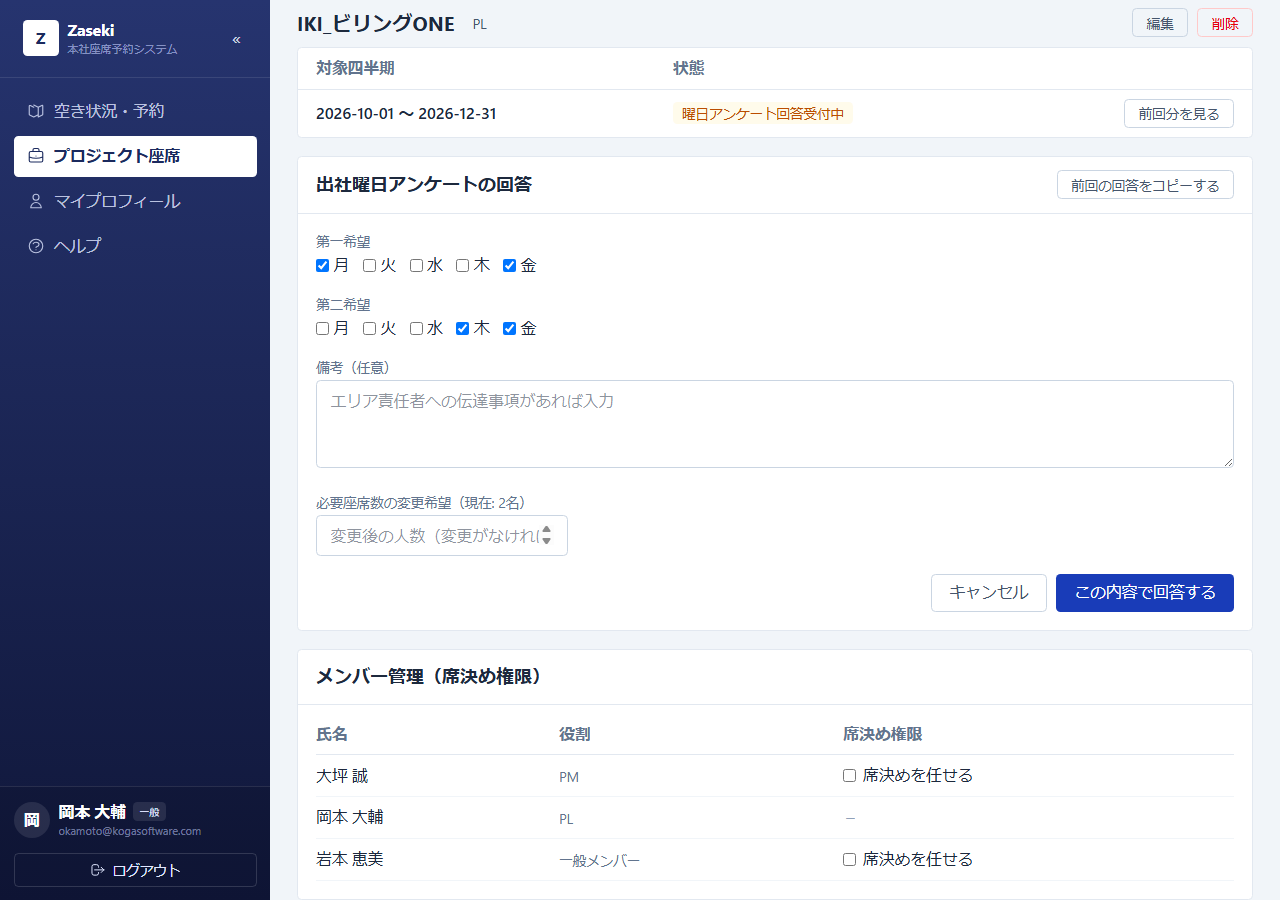
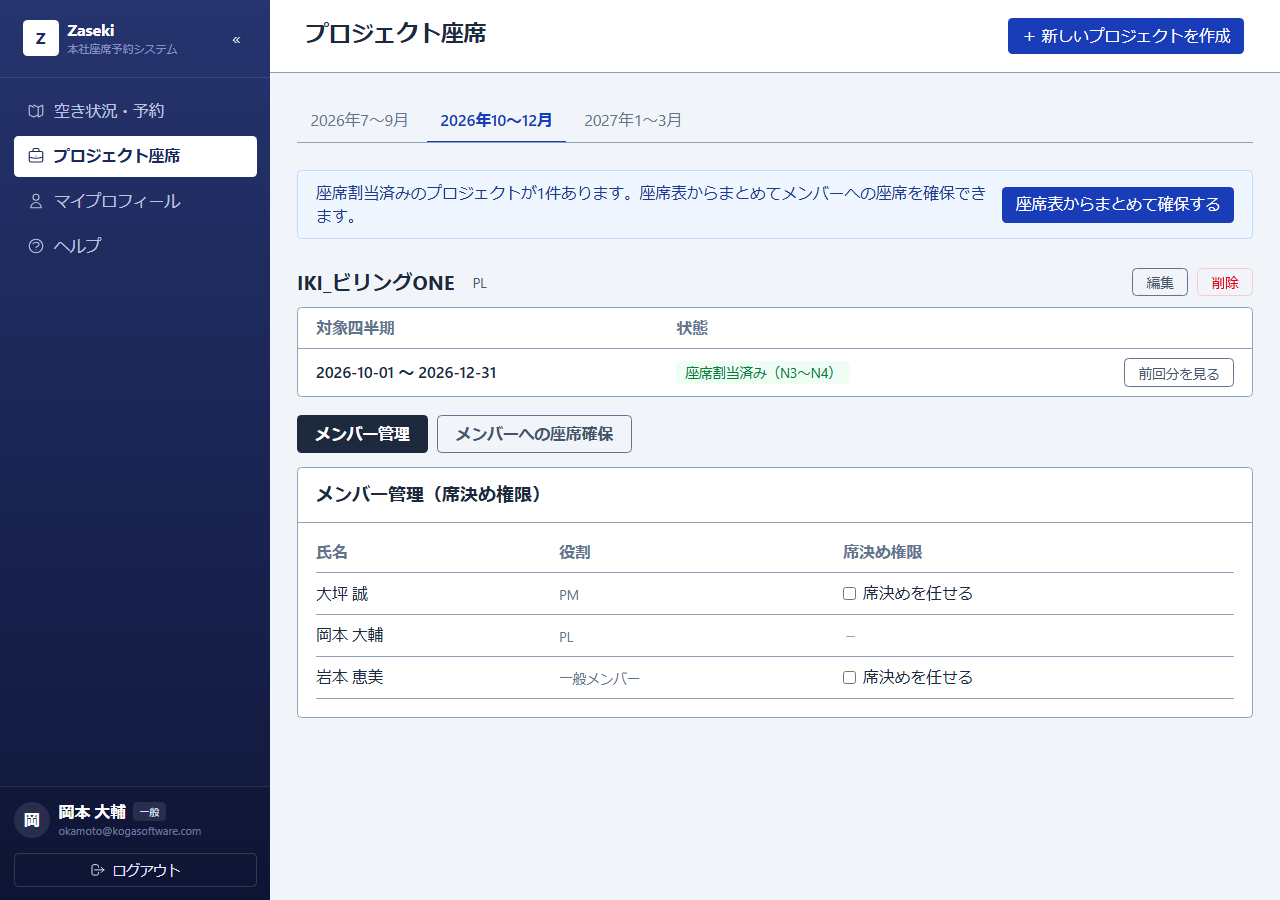
Refresh Help page to match current PM/PL and admin seat-assignment flows
Rewrite the member management / seat assignment sections to describe the
floor-map-only assignment flow and new bulk assign button. Rewrite the
admin seat-ops section to document the two-step tentative-assignment
flow (implemented previously but never reflected in Help), weekday
filters, override icon, and bulk island assignment. Retake screenshots
to match.

diff --git a/frontend/src/pages/Help.tsx b/frontend/src/pages/Help.tsx
@@ -173,7 +173,7 @@ export default function Help() {
               <ol className="list-decimal space-y-3 pl-5">
                 <li>サイドバーの「マイプロフィール」を開きます。自分のアイコン画像・生年月日（月日のみ）・趣味を登録できます（いずれも任意項目）。
                   <div className="mt-2 max-w-md">
-                    <Screenshot src="/help/profile-01-page.png" caption="マイプロフィール画面（アイコンの登録・生年月日の設定）" />
+                    <Screenshot src="/help/profile-01-page.png" caption="マイプロフィール画面（アイコンの登録・生年月日・趣味の設定）" />
                   </div>
                 </li>
                 <li>「画像を選択」から画像ファイルを選ぶと、位置・拡大率を調整するダイアログが開きます。円形の枠内に表示したい範囲を合わせて「適用する」を押し、最後に画面下の「保存する」を押してください（適用しただけでは保存されません）。</li>
@@ -183,7 +183,11 @@ export default function Help() {
               <ul className="list-disc space-y-1 pl-5">
                 <li>アイコンを設定すると、座席表の座席タイルに氏名とあわせて表示されます。未設定の間は氏名の頭文字のアバターが表示されます。</li>
                 <li>生年月日（月日）が本日と一致する日は、自分が使用している座席タイルに誕生日バッジ（🎂）が表示されます。</li>
-                <li>座席表で他の利用者の氏名が表示されている座席（使用中・固定座席・プロジェクト座席で個人が確定している座席）をクリックすると、その利用者のプロフィール（氏名・所属・生年月日・趣味）を見ることができます（2026-09-25追加）。</li>
+                <li>座席表で他の利用者の氏名が表示されている座席（使用中・固定座席・プロジェクト座席で個人が確定している座席）をクリックすると、その利用者のプロフィール（氏名・所属・生年月日・趣味）を見ることができます（2026-09-25追加）。
+                  <div className="mt-2 max-w-md">
+                    <Screenshot src="/help/profile-02-view.png" caption="氏名が表示されている座席をクリックすると開くプロフィール" />
+                  </div>
+                </li>
               </ul>
             </Section>
 
@@ -255,24 +259,32 @@ export default function Help() {
               </ol>
             </Section>
 
+            <Note>
+              「メンバー管理」「メンバーへの座席確保」は、それぞれのボタンを押すと表の部分が開きます（もう一度押すと閉じます）。2つのボタンは独立していて、片方を開いてももう片方は閉じません。両方同時に開くこともできます（2026-09-25変更。以前は常に両方の表を並べて表示していましたが、縦に長くなりすぎるため開閉式に改めました）。
+            </Note>
+
             <Section title="メンバー管理（席決め権限）">
-              <p>プロジェクトのPJ席決担当のみが操作できます。メンバー一覧の「席決めを任せる」チェックを入れると、そのメンバーにも下記の座席確保操作を任せられます（管理部の承認は不要）。自分自身の行にはチェックが表示されません（PJ席決担当は常に操作できるため）。</p>
+              <p>プロジェクトのPJ席決担当のみが操作できます。「メンバー管理」ボタンを押すと開く一覧の「席決めを任せる」チェックを入れると、そのメンバーにも下記の座席確保操作を任せられます（管理部の承認は不要）。自分自身の行にはチェックが表示されません（PJ席決担当は常に操作できるため）。</p>
               <div className="mt-2 max-w-md">
-                <Screenshot src="/help/members-01-permission.png" caption="メンバー管理（席決め権限）の一覧" />
+                <Screenshot src="/help/members-01-permission.png" caption="「メンバー管理」ボタンを押すと開く、席決め権限の一覧" />
               </div>
             </Section>
 
             <Section title="メンバーへの座席確保">
-              <p>座席の島の割当が完了した四半期（状態が「座席割当済み」）に限り、プロジェクトのPJ席決担当または席決め権限を持つメンバーが操作できます。</p>
+              <p>座席の島の割当が完了した四半期（状態が「座席割当済み」）に限り、プロジェクトのPJ席決担当または席決め権限を持つメンバーが「メンバーへの座席確保」ボタンから操作できます。</p>
               <ol className="list-decimal space-y-3 pl-5">
-                <li>「割り当てる座席」列のプルダウンから座席を選び、「この内容で一括確保する」でまとめて確保します。前回サイクルの座席割当があるプロジェクトでは「前回の座席をコピーする」で、前回と同じ座席番号が今回の座席の島にも含まれるメンバーの分だけ自動的に選択できます。固定座席あり・不要のメンバーも同じ表に表示され、確保状況を一目で確認できます。
+                <li>座席の確保はすべて座席表（フロアマップ）から行います。未確保のメンバーの行には「座席表から確保してください」と表示されるので、表の下の「座席表から選ぶ」を押してフロアマップへ移動し、座席の島の範囲内・未確定の座席をクリックして割り当てる相手を選びます。曜日によって座席の島が異なるプロジェクトでは、画面上部の曜日タブを切り替えながら曜日ごとに別々の座席を選べます（同じメンバーでも曜日ごとに違う座席にできます）。複数名を選んでから「この内容で確保する」で確定します。固定座席あり・不要のメンバーも同じ表に表示され、確保状況を一目で確認できます。
                   <div className="mt-2 max-w-md">
-                    <Screenshot src="/help/assign-01-table.png" caption="メンバーへの座席確保（座席の確保状況・割り当てる座席・不要）" />
+                    <Screenshot src="/help/assign-01-table.png" caption="メンバーへの座席確保（座席の確保状況・変更先・不要）" />
                   </div>
                 </li>
-                <li>座席表を見ながら選びたい場合は「座席表から選ぶ」からフロアマップへ移動し、座席をクリックして割り当てる相手を選びます。複数名を選んでから「この内容で確保する」で確定します。</li>
+                <li>複数のプロジェクトをまたいでまとめて座席を確保したい場合は、プロジェクト座席画面の上部に表示される「座席表からまとめて確保する」ボタンを使います（対象四半期に座席割当済み・未確保メンバーがいるプロジェクトが1件以上あるときに表示されます）。フロアマップの右側に曜日タブ・対象プロジェクト一覧・選択中プロジェクトの詳細（必要座席数・割り当てられた島・未確保のメンバー）が表示され、プロジェクトと曜日を切り替えながら複数プロジェクト分をまとめて選び、「この内容で確保する」で確定します（座席の島の一括割当と同じ考え方の画面です）。
+                  <div className="mt-2 max-w-md">
+                    <Screenshot src="/help/assign-02-bulk.png" caption="座席表からまとめて確保する（複数プロジェクトの未確保メンバーを1画面でまとめて確保）" />
+                  </div>
+                </li>
                 <li>同じ座席を複数人に指定した場合、その組み合わせだけが確保対象から除外されます。</li>
-                <li>確保済みのメンバーも、行の「変更先を選択」から別の座席（座席の島の範囲内）や「在宅勤務」への変更ができます。既に別のメンバーが使っている座席を選ぶと、その相手と座席を交換します。</li>
+                <li>確保済みのメンバーも、行の「変更先を選択」から別の座席（座席の島の範囲内）や「在宅勤務」への変更ができます。既に別のメンバーが使っている座席を選ぶと、その相手と座席を交換します（曜日によって座席が異なるプロジェクトでは、全確定曜日に共通する座席のみ選べます）。</li>
               </ol>
             </Section>
 
@@ -293,10 +305,7 @@ export default function Help() {
             </Section>
 
             <Section title="在宅のため座席が不要なメンバーの設定">
-              <p>ずっと在宅勤務でプロジェクト座席が不要なメンバーは、「メンバーへの座席確保」の一覧にある「不要」チェックを入れます。</p>
-              <div className="mt-2 max-w-md">
-                <Screenshot src="/help/assign-01-table.png" caption="「不要」は、メンバーへの座席確保と同じ表のチェック欄で設定する" />
-              </div>
+              <p>ずっと在宅勤務でプロジェクト座席が不要なメンバーは、「メンバーへの座席確保」ボタンを押すと開く一覧にある「不要」チェックを入れます。</p>
               <ul className="list-disc space-y-1 pl-5">
                 <li>確保対象・未確保者数、および必要座席数の算出から除外されます。</li>
                 <li>既に座席を確保済みの行はチェックボックスが非活性になります。先に予約を取り消してから設定してください。</li>
@@ -321,24 +330,25 @@ export default function Help() {
             <Section title="プロジェクト座席の運用">
               <p>管理メニューの「プロジェクト座席（エリア担当）」から開きます。管理部（role='admin'）であればエリア責任者への指定を問わず操作できます。</p>
               <ol className="list-decimal space-y-3 pl-5">
-                <li>四半期計画データと出社曜日アンケートはシステムが自動的に作成・受付開始されるため、開始操作は不要です。ページ冒頭の「期間」には、まだ座席期間が設定されていないプロジェクトへの一括新規設定ボタンと、既存プロジェクトへ次のサイクル分の期間を追加する・期間を修正するためのボタンがあります。</li>
-                <li>出社曜日の確定は「曜日調整表」（曜日×プロジェクトのマトリクス表）で行います。希望外の曜日をチェックすると「例外」バッジが付き、必要に応じて「AI提案を生成する」で仮の曜日案を作成することもできます。内容を確認して「この内容で全プロジェクトの曜日を確定する」を押すと、表示中の全プロジェクトの曜日がまとめて確定します（確定すると通知が送られます）。次のサイクル分を確定する際は、この表で前回サイクルの内容（各プロジェクトの備考・曜日）もあわせて参照できます。
+                <li>四半期計画データと出社曜日アンケートはシステムが自動的に作成・受付開始されるため、開始操作は不要です。ページ冒頭の「期間」の「座席期間を新規設定する」から、まだ期間が設定されていないプロジェクトへの新規設定と、既存プロジェクトへの次サイクル分の期間追加をまとめて行えます。個別のプロジェクトの期間だけを後から直したい場合は、下の「座席割り当て」一覧にある行ごとの「期間を修正」を使います。
                   <div className="mt-2 max-w-md">
-                    <Screenshot src="/help/seatops-02-matrix.png" caption="曜日×プロジェクトの確定マトリクス（曜日調整表）" />
+                    <Screenshot src="/help/seatops-02-matrix.png" caption="期間タブ・絞り込み（曜日・状態・エリア・プロジェクト名）・曜日調整表" />
                   </div>
                 </li>
+                <li>期間が複数あるときは期間タブで対象を切り替えられます。その下の「曜日で絞り込み」「状態」「エリア」「プロジェクト名」は、曜日調整表・確定した出社曜日・座席割り当ての3つの一覧すべてに共通して効く絞り込みです（「曜日で絞り込み」は絞り込みに加えて、後述する座席の島の例外編集の対象曜日の指定にも使います）。</li>
+                <li>出社曜日の確定は「曜日調整表」（曜日×プロジェクトのマトリクス表）で行います。希望外の曜日をチェックすると「例外」バッジが付き、必要に応じて「AI提案を生成する」で仮の曜日案を作成することもできます。内容を確認して「仮の座席割り当てを作成する」を押すと、その時点のチェック状態のまま次項の座席の島の割当画面に進みます。この時点ではまだ対外的な確定・Slack通知は行われず、曜日のチェック状態も座席の島も自由にやり直せる「仮」の状態です。実際にその曜日・座席で問題ないことを確認できたら、仮の座席割り当て済みのプロジェクトが1件以上あるときに表示される「この内容で本当に曜日を確定する」を押して、初めて確定・通知されます。</li>
                 <li>確定後・割当後のプロジェクトは、直後の「確定した出社曜日」表で確認できます。この表はチェックボックスで直接編集できる表でもあり（変更後は「この内容で変更する」で保存）、「プロジェクトの確定を取り消す」から曜日確定前に戻すこともできます。「割当済み」には実際に割り当てられた座席番号もあわせて表示されます。</li>
-                <li>各プロジェクトの状態（アンケート回答受付中・曜日確定済み・座席割当済み）や席決め担当、必要座席数などは「座席割り当て」の一覧でまとめて確認できます。未回答のプロジェクトが残っている場合は、一覧の「リマインドを送る」から任意のタイミングで催促を送れます（共通Slackチャンネルへ通知）。必要座席数は、固定座席保有者・不要なメンバーを除いた人数から自動算出されるので、例外的に上書きしたい場合のみ「人数を修正」を使います（ただし実際に座席の島を割り当てる際は、その時点の実際のメンバー構成が優先されます）。
+                <li>各プロジェクトの状態（アンケート回答受付中・仮の座席割り当て中・曜日確定済み・座席割当済み）や席決め担当、必要座席数などは「座席割り当て」の一覧でまとめて確認できます。未回答のプロジェクトが残っている場合は、一覧の「リマインドを送る」から任意のタイミングで催促を送れます（共通Slackチャンネルへ通知）。必要座席数は、固定座席保有者・不要なメンバーを除いた人数から自動算出されるので、例外的に上書きしたい場合のみ「人数を修正」を使います（ただし実際に座席の島を割り当てる際は、その時点の実際のメンバー構成が優先されます）。曜日によって座席の島が異なるプロジェクトはプロジェクト名の隣に🔀が表示され、カーソルを合わせると曜日ごとの内訳を確認できます。誤って確定・割当してしまった場合は同じ行の「取り消す」でその場で取り消せます。
                   <div className="mt-2 max-w-md">
-                    <Screenshot src="/help/seatops-01-list.png" caption="プロジェクト座席（エリア担当）の座席割り当て一覧" />
+                    <Screenshot src="/help/seatops-01-list.png" caption="座席割り当て一覧（🔀は曜日によって座席の島が異なるプロジェクトの目印）" />
                   </div>
                 </li>
-                <li>座席の島の割当は、一覧の「座席の島を割り当てる」からフロアマップへ移動して行います（初期表示日は対象四半期の開始日）。必要座席数分の座席をクリックして選び、「この内容で割り当てる」で確定します。ブロックのラベルの「この島を割り当てる」でまとめて選ぶこともできます。
+                <li>座席の島の割当は、一覧の「座席の島を割り当てる」（仮の座席割り当て後・割当済み後は「座席を編集」）からフロアマップへ移動して行います（初期表示日は対象四半期の開始日）。「曜日で絞り込み」が「すべて」のときは全確定曜日に共通の座席の島を一括で割り当て・編集します。特定の曜日だけ別の座席にしたい場合は、先に「曜日で絞り込み」でその曜日を選んでから同じ操作を行うと、その1日だけ例外的に別の座席へ変更できます（他の曜日の割当はそのまま残ります）。フロアマップ側にも「曜日で座席状況を切り替え」ボタンがあり、他の確定曜日にこのプロジェクトが使っている座席を破線で確認しながら選べます。必要座席数分の座席をクリックして選び、「この内容で割り当てる（更新する）」で確定します。ブロックのラベルの「この島を割り当てる」でまとめて選ぶこともできます。
                   <div className="mt-2 max-w-md">
-                    <Screenshot src="/help/seatops-03-floormap.png" caption="座席の島の割当（フロアマップで座席を選択）" />
+                    <Screenshot src="/help/seatops-03-floormap.png" caption="座席の島の編集（曜日で座席状況を切り替え・選択中の座席数）" />
                   </div>
                 </li>
-                <li>割当済みの座席の島は「座席を編集」から選び直せます。</li>
+                <li>複数プロジェクトをまとめて割り当てたい場合は、「座席割り当て」一覧の下に表示される「座席の島の割当をまとめて行う」（割当が必要なプロジェクトが1件以上あるときのみ表示）を使います。単一プロジェクトの画面と同じフロアマップ左・操作パネル右のレイアウトで、右側の対象プロジェクト一覧・曜日タブを切り替えながら複数プロジェクト分を続けて選べます（1プロジェクトずつ「〇曜日の分だけまとめて保存する」で保存でき、保存後も画面に留まれます）。前回サイクルの実績があるプロジェクトを選択中は、詳細欄のプロジェクト名の横に🕐アイコンが表示され、カーソルを合わせると前回の確定曜日・座席の島を確認できます。</li>
               </ol>
             </Section>
 

diff --git a/docs/座席予約システム_基本設計書.html b/docs/座席予約システム_基本設計書.html
@@ -533,6 +533,8 @@ footer.doc-footer {
       <tr><td>3.14</td><td>2026-09-15</td><td>訂正反映（積み残しの解消、要件定義書v1.01）: 「未確認未実装の要件はあるか」との点検で、v3.12でPJ席決担当基準に戻したはずの箇所のうち、2.2節のS-02（代理予約モードの対象者説明、複数人の代理予約ボタンの表示条件）・S-04（メンバー一覧からの直接代理予約の主体）・4.3節冒頭の説明文に、2026-09-09時点の「プロジェクトの作成者」という古い記述が個別に修正漏れとして残っていたことが判明した（v3.12の修正はS-04の編集・削除ボタン〔FR-03-14〕、権限マトリクス、T-05・T-06の説明が中心で、これら他の箇所は見落としていた）。いずれもPJ席決担当基準に訂正した。2.2節（S-02・S-04）・4.3節を修正。</td></tr>
       <tr><td>3.13</td><td>2026-09-15</td><td>不具合修正（v3.12の積み残し）: v3.12でA-78（自己申告作成）にproxy_user_id＝作成した本人を既定設定する修正を入れたが、AIによるコードレビューで、S-04の「新しいプロジェクトを作成」が実際にはこの効果を打ち消してしまっていることが判明した。作成（A-78）に続けてメンバー構成を保存するA-29を必ず呼ぶ実装になっており、そのBodyのproxy_user_idがフォームの初期値のまま（未選択＝null）のため、A-29のUPDATE文がA-78で設定したばかりのproxy_user_idを直後にNULLへ上書きしていた。結果、自分でプロジェクトを作成した本人が、そのプロジェクトのアンケート回答も座席確保も編集も削除もできなくなる状態になっていた。S-04の新規作成フォームの初期値を、作成者と同様にPJ席決担当も作成した本人にするよう修正した（本人は既定でPMとしてメンバーに追加済みのため、PJ席決担当の条件〔PM/PLのメンバーであること〕も満たす）。あわせて、S-04・S-08共通の編集モーダルの説明文が「PJ席決担当は表示用の項目で、アンケート回答・座席確保は作成者のみが行える」という、v3.12で戻した権限モデルと正反対の文言のまま残っていたため、正しい説明（PJ席決担当が実権限を持ち、作成者は表示専用）に修正した。ローカル環境で使い捨てのテストプロジェクトを作成し、修正前はis_seat_assignerがfalseになること、修正後はtrueになることをAPI直叩きで確認し、テストプロジェクトは削除した。2.2節（S-04）を修正。</td></tr>
       <tr><td>3.12</td><td>2026-09-14</td><td>不具合修正（実質的には2026-09-09の変更の取り消し）: 実運用で「席決め担当は小林直樹なのに、期間を決めてもプロジェクト席のアンケートが送られてこない」という具体的な不具合が見つかったのを機に確認したところ、「そもそも要件が違います。作成者が席決め担当にするのではなく作成者はただの作成者です。何も権限はありません。席決め担当になった人がアンケートなどに回答できます」との訂正を受けた。2026-09-09に千田さんの案で、出社曜日アンケートの回答（FR-03-4）・メンバーへの座席確保（FR-03-7）・席決め権限の委任（FR-03-8）・プロジェクトの編集・削除・一覧の絞り込みの実行権限を、PJ席決担当（proxy_user_id）からプロジェクトの作成者（created_by）へ一括で切り替えていたが、この基準を全てPJ席決担当へ戻した（2026-09-09以前と同じ基準）。作成者（created_by）は「誰がプロジェクトを作ったか」を示す表示専用の記録項目に戻り、以後どの操作の権限判定にも使わない。プロジェクトの自己申告作成（FR-03-12）は、作成した本人が自分のプロジェクトに対して何の操作もできなくなることを避けるため、作成者に加えてPJ席決担当にも作成した本人を既定値として設定するよう変更した（後から他のPM/PLへ譲渡できる）。ローカル環境の実データ（プロジェクト「仮案件」、PJ席決担当＝小林直樹、作成者＝管理部）で、修正前は小林直樹がアンケートに回答しようとすると拒否されること、修正後は回答できることを確認し、検証用に送信した回答は削除して元の状態に戻した。4.2節（権限マトリクス）・2.2節（S-04・S-08）・3.2節（T-05・T-06）を修正。</td></tr>
+      <tr><td>3.36</td><td>2026-09-25</td><td>訂正反映（v3.35の追加分、S-13、フロントエンドのみ）: v3.35に続き、「そちらもお願いします」との指示を受け、管理部・エリア責任者向けタブの「プロジェクト座席の運用」の文章・スクリーンショットも実際の画面に合わせて全面的に書き直した。従来の説明は、2026-09-16の仮の座席割り当て（A-84）新設より前の「この内容で全プロジェクトの曜日を確定する」という単一ボタンの説明のまま放置されており、実際の「仮の座席割り当てを作成する」→「この内容で本当に曜日を確定する」の2段階フローが一切反映されていなかった（本文には反映されないまま実装のみ先行していた）。また、既に廃止された「前回の確定曜日をコピーする」ボタンが残っていたスクリーンショットの撮り直し、「曜日で絞り込み」を含む4種類の絞り込み（曜日・状態・エリア・プロジェクト名）の説明追加、曜日ごとの座席の島の例外編集（🔀アイコン）・座席の島の割当をまとめて行う（曜日タブ・🕐アイコン）の説明追加も行った。固定座席の指定・代理予約・取消・座席マスタ管理・権限・PJ管理の各節は、直近の変更が表示上の枠線の濃さ調整等にとどまり実質的な操作手順に変更がないことを確認し、対象外とした。2.2節（S-13）を修正。</td></tr>
+      <tr><td>3.35</td><td>2026-09-25</td><td>訂正反映（S-13、フロントエンドのみ）: 「ヘルプを今のやり方で修正してほしい、スクリーンショットとか」との指摘を受けた。v3.29〜v3.34の一連の変更（S-04のプルダウン廃止・座席表のみでの座席確保、座席表からまとめて確保するボタン、メンバー管理／メンバーへの座席確保のボタン開閉化、座席クリックでのプロフィール表示、マイプロフィールの趣味欄）により、ヘルプ（S-13）PM・PL向けタブの「メンバー管理」「メンバーへの座席確保」の説明文とスクリーンショットが実際の画面と食い違っていたため、実際にログインして操作しながら文章を書き直し、該当するスクリーンショット（メンバー管理・メンバーへの座席確保の一覧、マイプロフィール画面）を撮り直した。あわせて、新設した座席表からのプロフィール表示・座席表からまとめて確保するボタンの説明とスクリーンショットを新規に追加した。共通操作タブの予約・期間ビュー等、今回の変更の影響を受けていない箇所は対象外（画面自体に変更がないため撮り直していない）。2.2節（S-13）を修正。</td></tr>
       <tr><td>3.34</td><td>2026-09-25</td><td>機能追加（詳細設計書v1.40、T-01、A-56・A-57拡張・A-87新設、S-02・S-12）: 「名前が記入されている座席を押したときプロフィールが出てくるようにしたい」との要望を受けた。従来、座席表（S-02）で氏名が表示されている座席（使用中〔他利用者〕・固定座席・プロジェクト座席個人確定済み）はクリックしても何も起きなかった（自分の予約のみ取消モーダルが開いた）。これらの座席をクリックすると、その利用者のプロフィール（氏名・所属・誕生日・趣味）を読み取り専用で表示するモーダルが開くようにした。自分の予約（status='mine'）は従来どおり取消モーダルを優先し、対象外とする。あわせて「プロフィール作成に趣味の欄を作成して」との追加要望を受け、マイプロフィール（S-12）に趣味（200文字以内の自由記述、任意）の入力欄を追加した。2.2節（S-02・S-12）を修正。</td></tr>
       <tr><td>3.33</td><td>2026-09-25</td><td>不具合修正（フロントエンドのみ、S-02）: 「時々文字が重なって見づらいときがあるのでちゃんと2行目に行くようにしたい」との報告を受けた（Jブロック等、略称が長いプロジェクトの座席タイルで、隣の座席の文字と重なって表示される不具合）。座席タイル（.seat-tile）はdisplay:flex・align-items:centerのレイアウトのため、プロジェクト略称のタグ（.seat-tag）の幅が明示されておらず、内容に応じて広がりタイル幅（58px）を超えて隣のタイルへはみ出していた。さらに「NTTCom_ECL_SSS」のようにスペースを含まない文字列は通常のword-wrapでは折り返せず、はみ出す一因になっていた。タグの幅をタイル幅いっぱいに固定し、word-break: break-allで単語の途中でも折り返せるようにしたことで、2行目以降に収まるようにした。表示のみの修正で、座席の状態判定・データモデルに変更はない。</td></tr>
       <tr><td>3.32</td><td>2026-09-25</td><td>訂正反映（v3.31の訂正、フロントエンドのみ、S-04）: 「切り替えではなくボタンで画面が出てくるようにしてほしい」との指摘を受けた。v3.31では「メンバー管理」「メンバーへの座席確保」の2つのボタンをタブのように扱い、片方を選ぶと自動的にもう片方が閉じる仕組みにしていたが、これを「押したボタンの画面が出てくる」という開閉方式に改めた。各ボタンはそれぞれ独立した開閉状態を持ち、押すとその表が表示され、もう一度押すとその表だけが閉じる（もう片方の表の表示状態には影響しない。両方のボタンを押せば両方の表を同時に表示することもできる）。既定はどちらも非表示（v3.31では「メンバーへの座席確保」を既定で表示していたが、これも廃止した）。2.2節（S-04）を修正。</td></tr>
